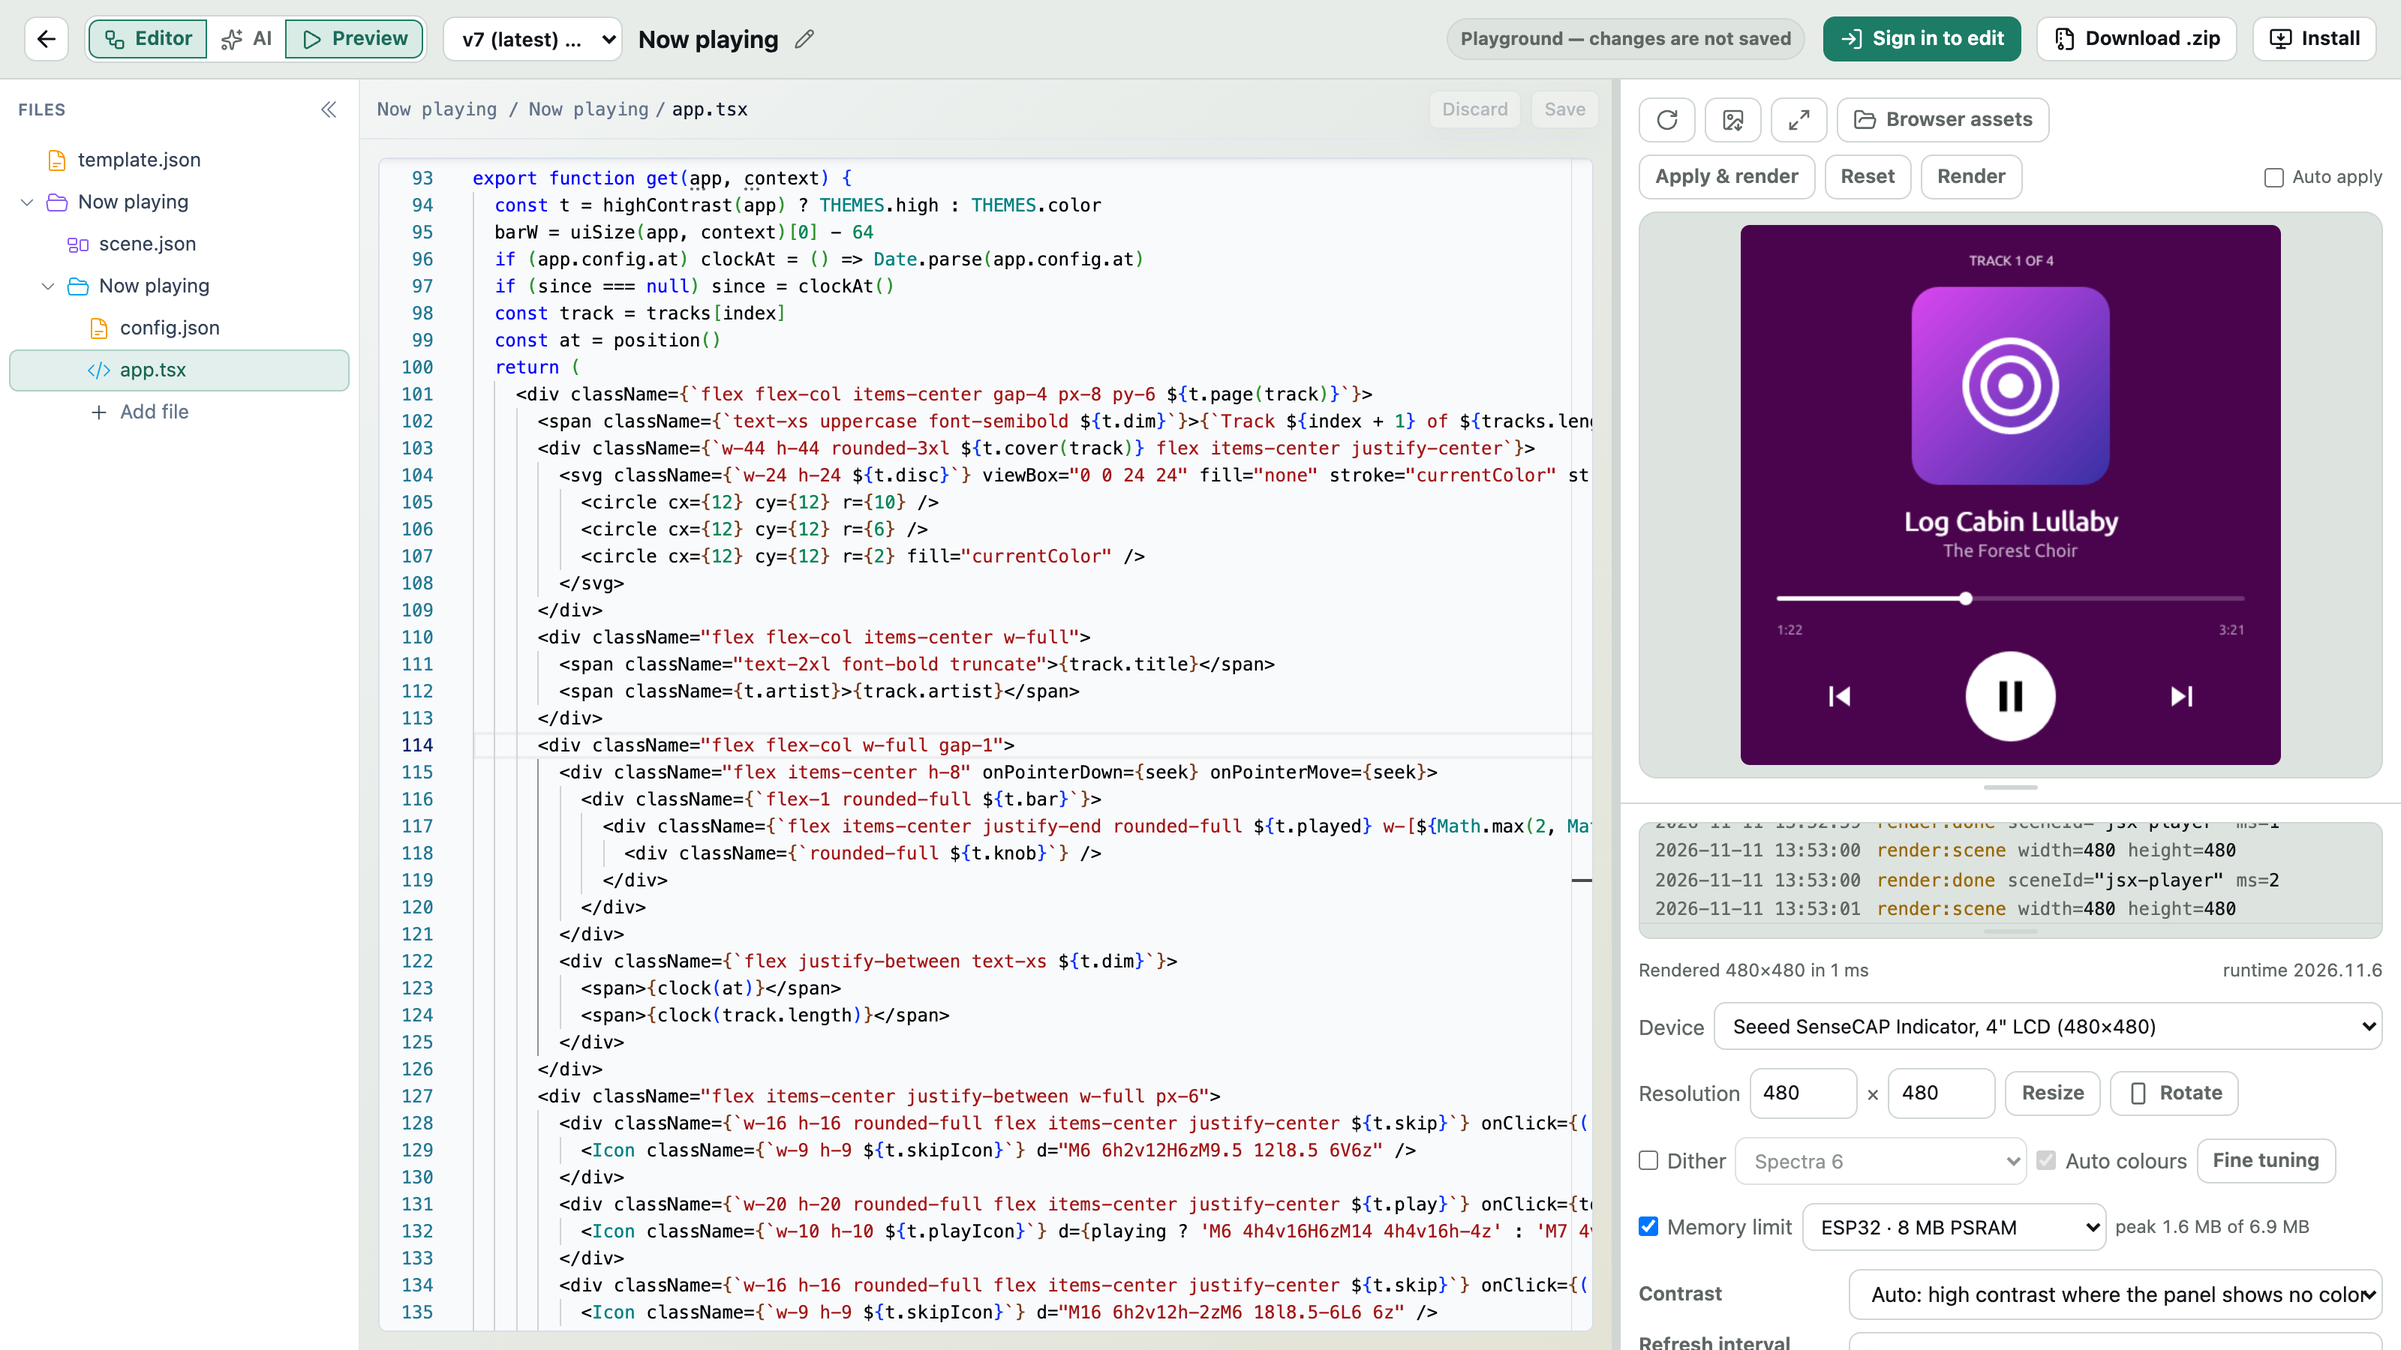
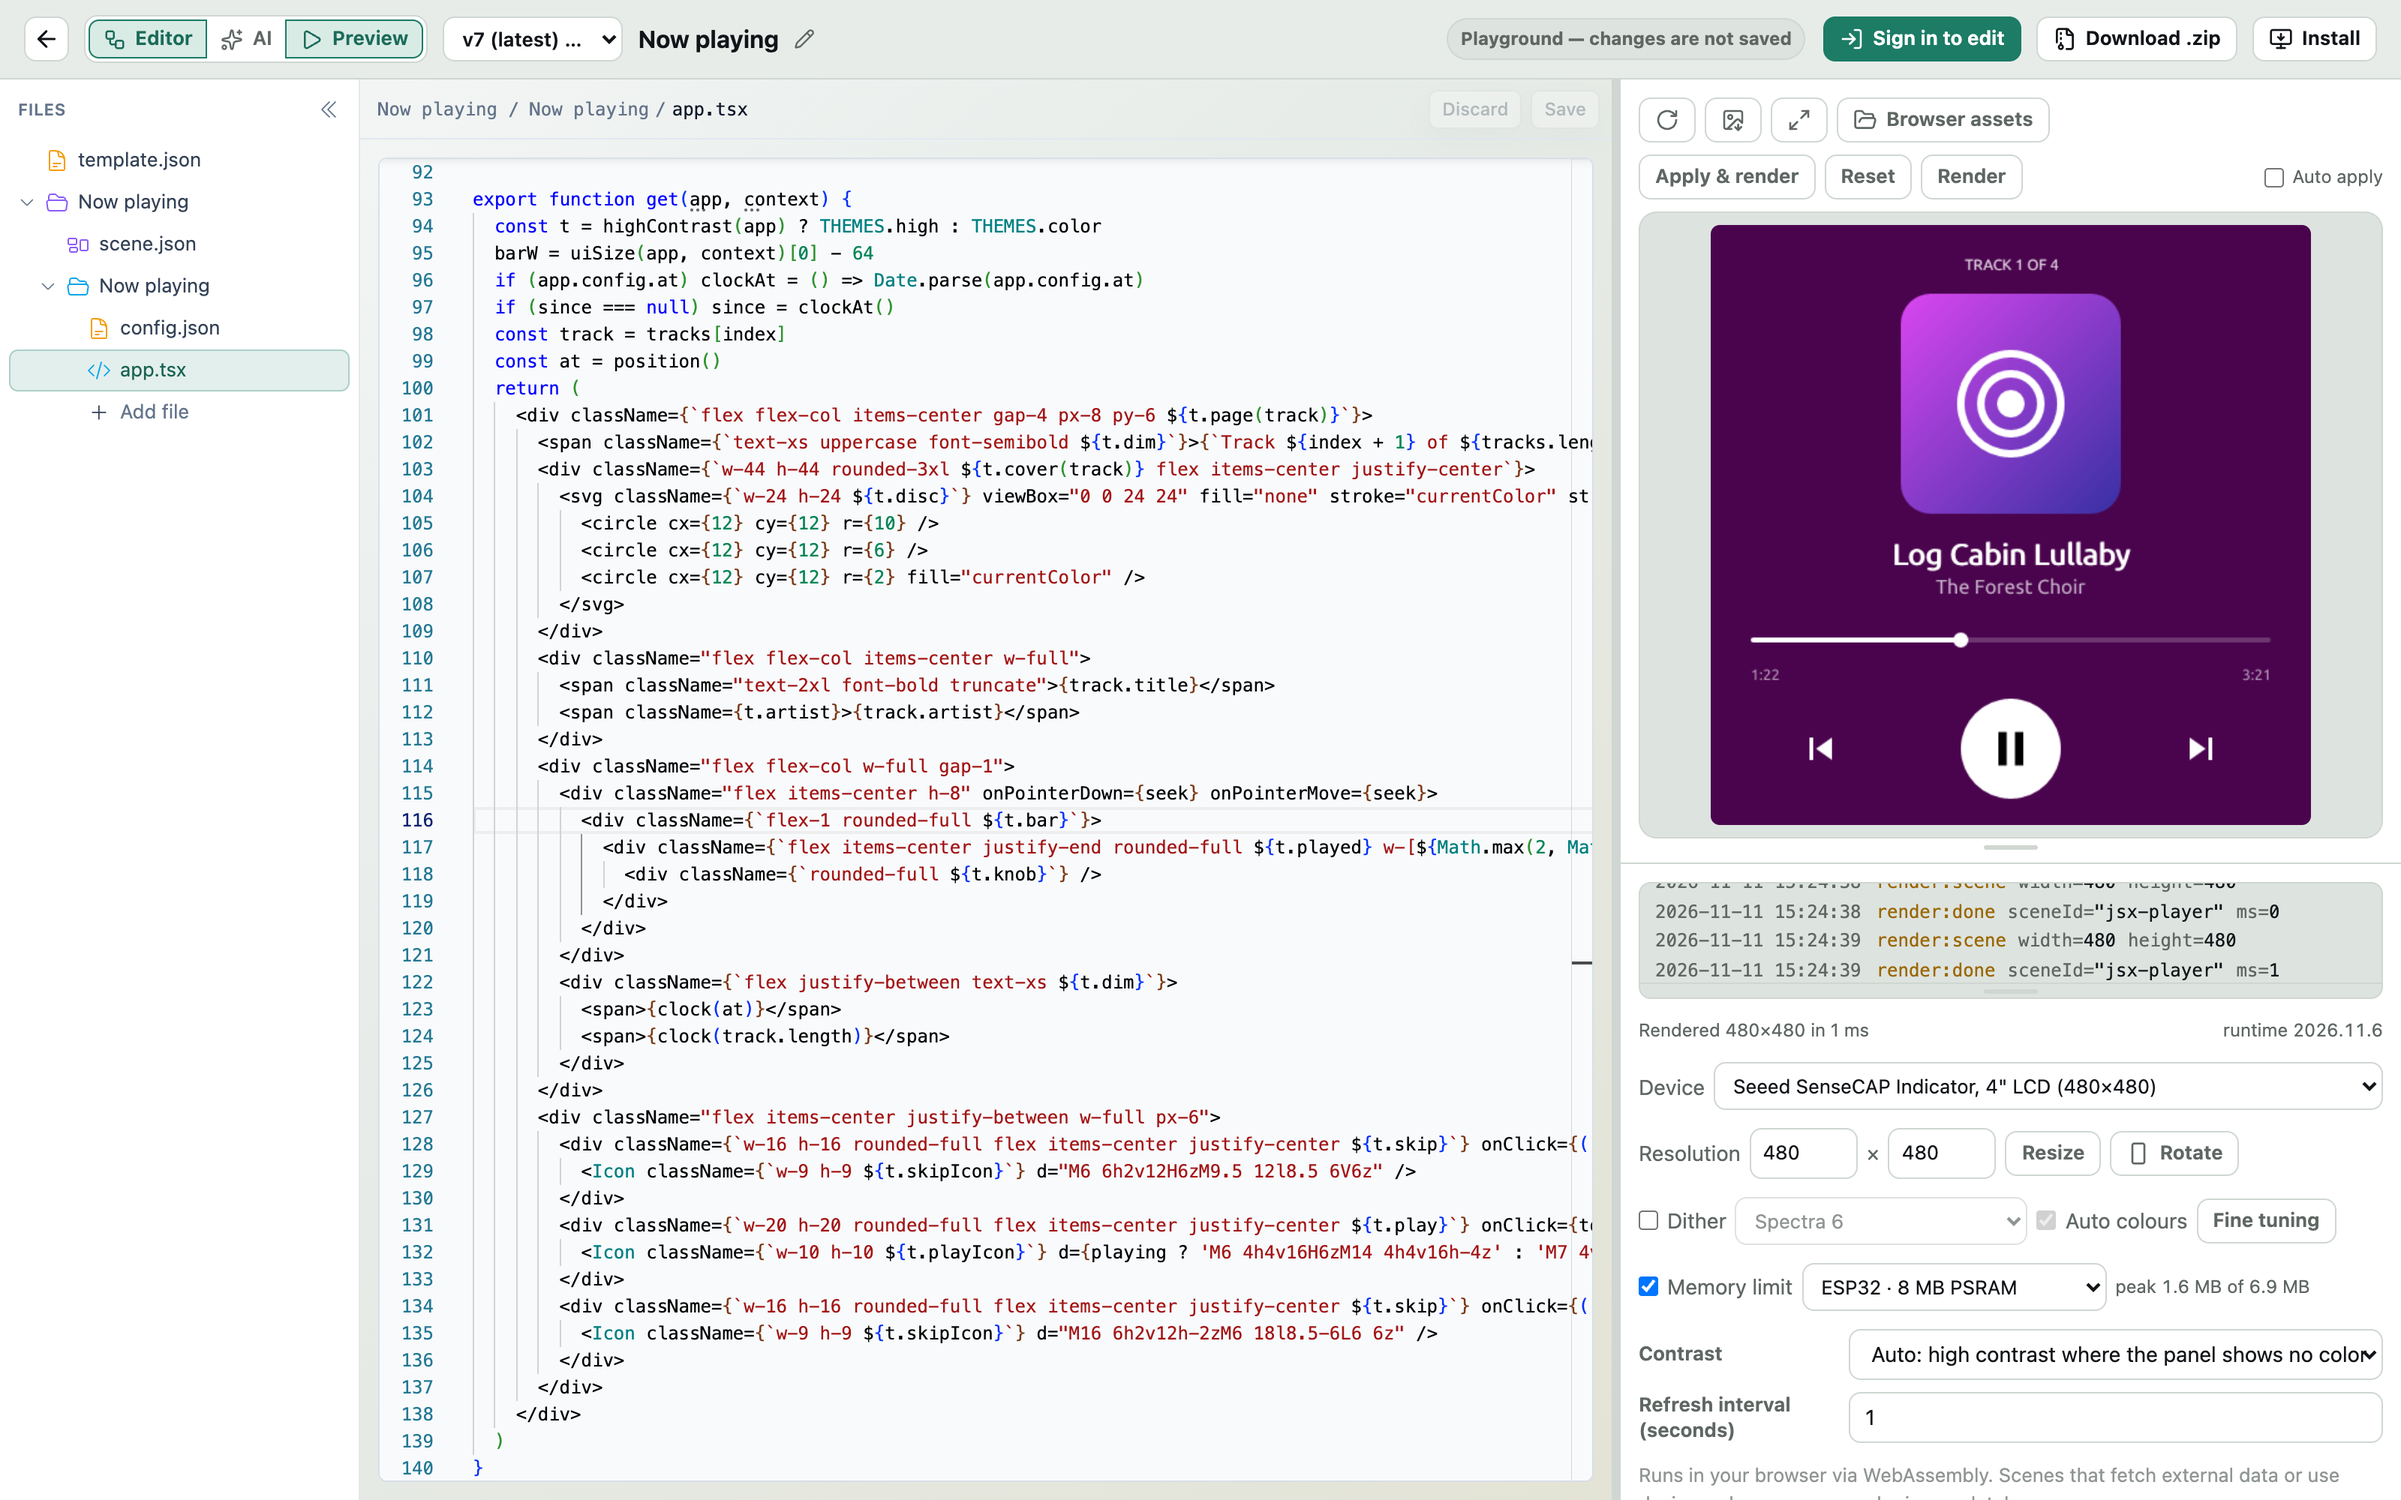
Homepage: Now playing live in the editor, not just a screenshot
The JSX section embeds the store's Now playing scene in its editor
(scenes.frameos.net/s/now-playing?embed=1, opened on app.tsx with the preview
as a SenseCAP Indicator inside the ESP32's 8 MB), so a visitor can change the
JSX and watch it re-render. LiveSceneEmbed loads it on wide screens once the
section is near, and keeps the screenshot up until the embed posts that its
scene is loaded; on phones, and wherever the embed doesn't come up within 20 s
(until the store's embed mode is deployed, the store refuses to be framed),
the screenshot stays. Each state has its own caption. The screenshot is
retaken at 16:10, the live frame's shape, with the whole get() in view.

diff --git a/components/live-scene-embed.tsx b/components/live-scene-embed.tsx
@@ -1,0 +1,115 @@
+'use client';
+
+import { useEffect, useRef, useState, type ReactNode } from 'react';
+import { LightboxImage } from '@/components/lightbox';
+import { cn } from '@/lib/cn';
+
+// What the store's embed posts once its scene has loaded
+// (frameos cloud/apps/auth-web/src/lib/store-embed.ts).
+const READY_MESSAGE = 'frameos-store:embed-ready';
+// No ready message by then (the store refuses to be framed, or the network is
+// slow): the screenshot stays and the frame goes.
+const READY_TIMEOUT_MS = 20000;
+
+/**
+ * A scene from scenes.frameos.net, live in its editor: the store's embed mode
+ * in an iframe on wide screens, loaded when it nears the viewport. The
+ * screenshot stands in until the embed says its scene is loaded, and stays on
+ * phones (an editor in a phone-sized frame would swallow the page's scroll)
+ * and wherever the embed doesn't come up.
+ */
+export function LiveSceneEmbed({
+  src,
+  title,
+  poster,
+  caption,
+  liveCaption,
+  className,
+}: {
+  /** The embed's URL: `https://scenes.frameos.net/s/<slug>?embed=1&…`. */
+  src: string;
+  /** The iframe's accessible name. */
+  title: string;
+  poster: { src: string; alt: string; width: number; height: number; caption?: string };
+  /** Under the screenshot. */
+  caption?: ReactNode;
+  /** Under the live editor, once it has come up. */
+  liveCaption?: ReactNode;
+  className?: string;
+}) {
+  const boxRef = useRef<HTMLDivElement | null>(null);
+  const frameRef = useRef<HTMLIFrameElement | null>(null);
+  const [mounted, setMounted] = useState(false);
+  const [ready, setReady] = useState(false);
+  const [failed, setFailed] = useState(false);
+
+  // Wide screens only, once the section is close.
+  useEffect(() => {
+    const box = boxRef.current;
+    if (!box || typeof IntersectionObserver === 'undefined') return;
+    const wide = window.matchMedia('(min-width: 768px)');
+    if (!wide.matches) return;
+    const observer = new IntersectionObserver(
+      (entries) => {
+        if (entries.some((entry) => entry.isIntersecting)) {
+          setMounted(true);
+          observer.disconnect();
+        }
+      },
+      { rootMargin: '600px 0px' },
+    );
+    observer.observe(box);
+    return () => observer.disconnect();
+  }, []);
+
+  useEffect(() => {
+    if (!mounted || ready) return;
+    const origin = new URL(src).origin;
+    const onMessage = (event: MessageEvent) => {
+      if (
+        event.origin === origin &&
+        event.source === frameRef.current?.contentWindow &&
+        (event.data as { type?: unknown } | null)?.type === READY_MESSAGE
+      ) {
+        setReady(true);
+      }
+    };
+    window.addEventListener('message', onMessage);
+    const timer = window.setTimeout(() => setFailed(true), READY_TIMEOUT_MS);
+    return () => {
+      window.removeEventListener('message', onMessage);
+      window.clearTimeout(timer);
+    };
+  }, [mounted, ready, src]);
+
+  const live = mounted && !failed;
+  const shownCaption = ready ? (liveCaption ?? caption) : caption;
+  return (
+    <div className={className}>
+      <div ref={boxRef} className="relative">
+        <div className={cn(ready && 'invisible')} aria-hidden={ready || undefined}>
+          <LightboxImage {...poster} caption={poster.caption} />
+        </div>
+        {live ? (
+          <iframe
+            ref={frameRef}
+            src={src}
+            title={title}
+            // Scripts and its own origin for the editor and the preview's
+            // workers; popups for its "Open in the store", into a normal tab.
+            sandbox="allow-scripts allow-same-origin allow-forms allow-popups allow-popups-to-escape-sandbox"
+            allow="clipboard-write"
+            referrerPolicy="strict-origin-when-cross-origin"
+            className={cn(
+              'absolute inset-0 h-full w-full rounded-xl border bg-fd-background transition-opacity duration-500',
+              ready ? 'opacity-100' : 'pointer-events-none opacity-0',
+            )}
+          />
+        ) : null}
+      </div>
+      {shownCaption ? (
+        <p className="mx-auto mt-3 max-w-3xl text-center text-sm text-fd-muted-foreground">{shownCaption}</p>
+      ) : null}
+    </div>
+  );
+}

diff --git a/app/(home)/page.tsx b/app/(home)/page.tsx
@@ -5,6 +5,7 @@ import { InstallPathChooser } from '@/components/install-path-chooser';
 import { Slideshow, type Slide } from '@/components/slideshow';
 import { TextLink } from '@/components/text-link';
 import { LightboxImage } from '@/components/lightbox';
+import { LiveSceneEmbed } from '@/components/live-scene-embed';
 import { CompareGallery, type ComparePhoto } from '@/components/compare-gallery';
 import { links } from '@/lib/shared';
 
@@ -239,20 +240,34 @@ export default function HomePage() {
               </>
             }
           />
-          <LightboxImage
-            src="/images/editor/jsx-now-playing-esp32.png"
-            alt="The FrameOS scene editor on scenes.frameos.net: the Now playing scene's app.tsx with JSX and Tailwind classes on the left, and its live preview on the right, rendered as a Seeed SenseCAP Indicator with the ESP32's 8 MB memory limit"
-            width={3200}
-            height={1800}
-            className="mx-auto max-w-5xl"
-            caption="Now playing in the scene editor, previewed as a SenseCAP Indicator inside the ESP32's 8 MB of memory"
+          <LiveSceneEmbed
+            src={`${links.sceneStore}/s/now-playing?embed=1&file=app.tsx&device=sensecap-indicator&memory=esp32`}
+            title="The Now playing scene, live in the FrameOS scene editor"
+            poster={{
+              src: '/images/editor/jsx-now-playing-esp32.png',
+              alt: "The FrameOS scene editor on scenes.frameos.net: the Now playing scene's app.tsx with JSX and Tailwind classes on the left, and its live preview on the right, rendered as a Seeed SenseCAP Indicator with the ESP32's 8 MB memory limit",
+              width: 3200,
+              height: 2000,
+              caption: "Now playing in the scene editor, previewed as a SenseCAP Indicator inside the ESP32's 8 MB of memory",
+            }}
+            caption={
+              <>
+                <TextLink href={`${links.sceneStore}/s/now-playing`}>Now playing</TextLink> in the scene editor: a
+                gradient cover, a seek bar you drag (<code>onPointerMove</code>) and play buttons, previewed as a{' '}
+                <TextLink href="/devices/seeed-sensecap-indicator">SenseCAP Indicator</TextLink>{' '}
+                inside the ESP32&apos;s 8&nbsp;MB of memory.
+              </>
+            }
+            liveCaption={
+              <>
+                This is live: change a class or a color in <code>app.tsx</code> and the preview re-renders, as a{' '}
+                <TextLink href="/devices/seeed-sensecap-indicator">SenseCAP Indicator</TextLink>{' '}
+                inside the ESP32&apos;s 8&nbsp;MB of memory. Drag the seek bar, press play. Nothing you change is
+                saved.
+              </>
+            }
+            className="mx-auto max-w-6xl"
           />
-          <p className="mx-auto mt-3 max-w-3xl text-center text-sm text-fd-muted-foreground">
-            <TextLink href={`${links.sceneStore}/s/now-playing`}>Now playing</TextLink> in the scene editor: a
-            gradient cover, a seek bar you drag (<code>onPointerMove</code>) and play buttons, previewed as a{' '}
-            <TextLink href="/devices/seeed-sensecap-indicator">SenseCAP Indicator</TextLink>{' '}
-            inside the ESP32&apos;s 8&nbsp;MB of memory.
-          </p>
           <div className="mx-auto mt-10 grid max-w-5xl gap-4 sm:grid-cols-2 lg:grid-cols-4">
             {[
               {
